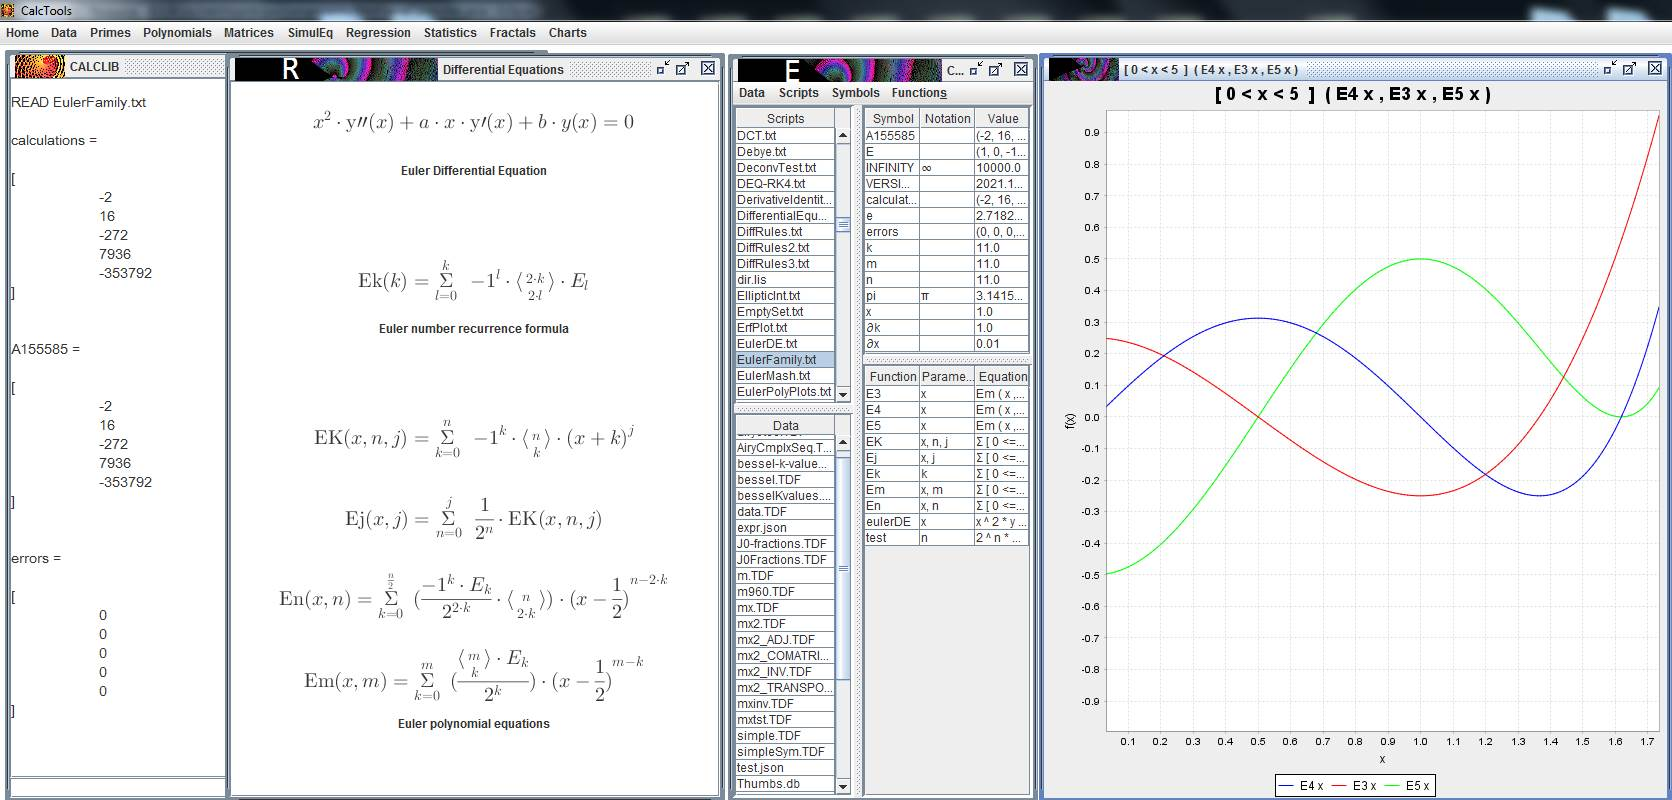
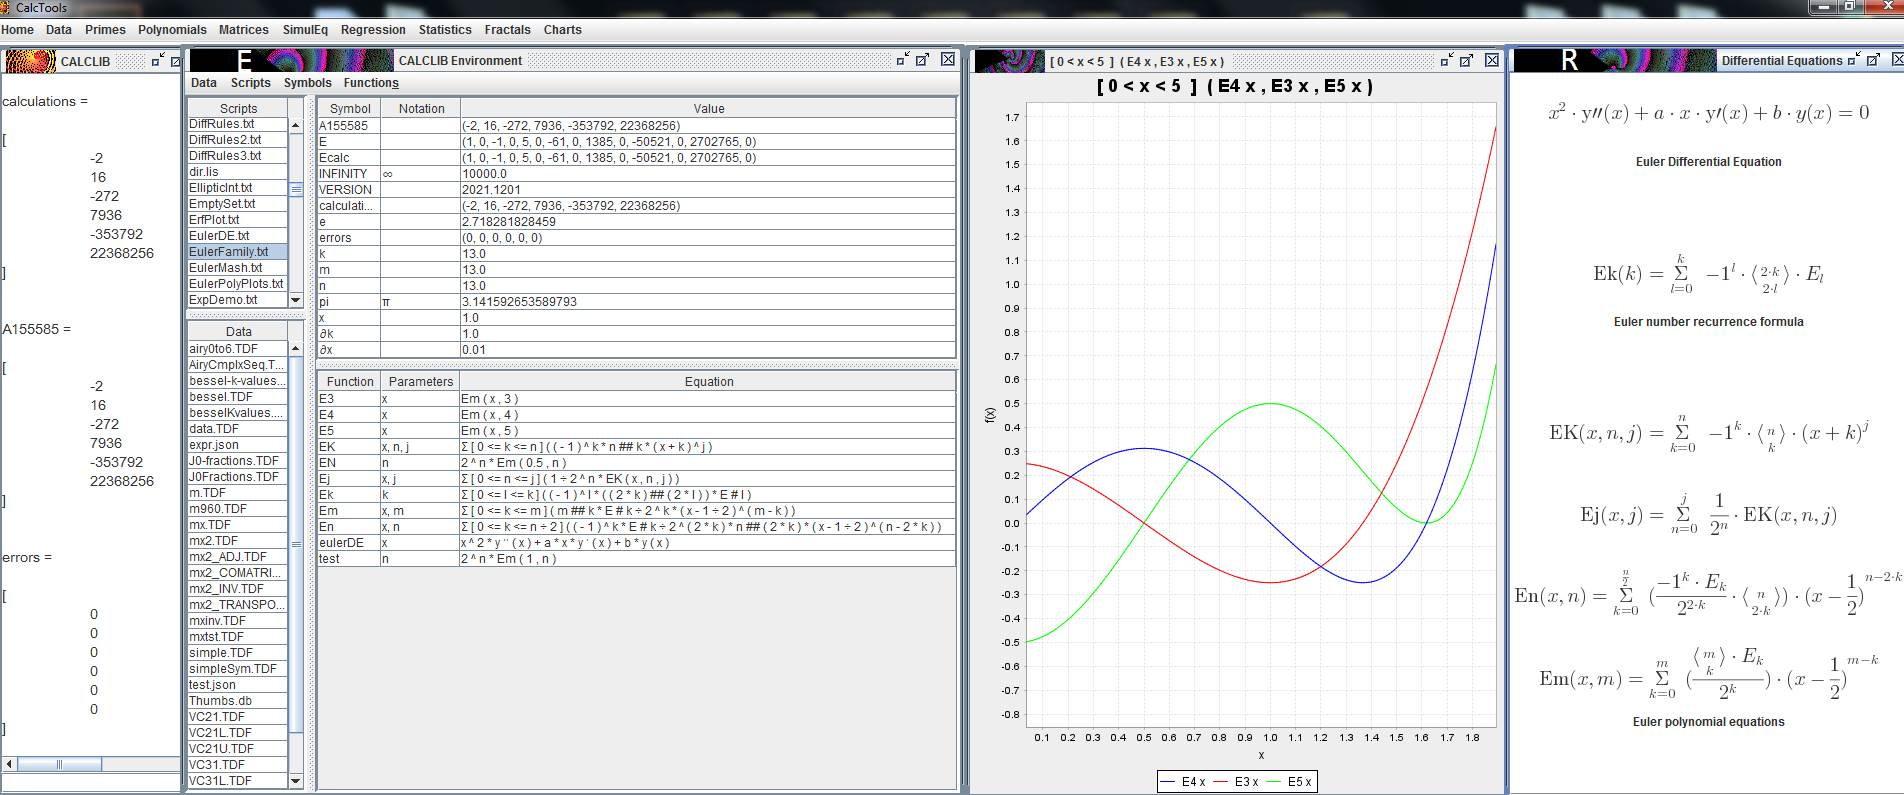
Euler page improved

Changed region(s): [[0.0, 0.0, 1.0, 1.0], [0.8397, 0.1811, 0.933, 0.2113], [0.8708, 0.7245, 0.9019, 0.7849]]

diff --git a/docs/EulerPolynomials.htm b/docs/EulerPolynomials.htm
@@ -23,17 +23,17 @@ w\:* {behavior:url(#default#VML);}
   <o:Author>Michael</o:Author>
   <o:Template>Normal</o:Template>
   <o:LastAuthor>Michael</o:LastAuthor>
-  <o:Revision>3</o:Revision>
-  <o:TotalTime>7</o:TotalTime>
+  <o:Revision>4</o:Revision>
+  <o:TotalTime>9</o:TotalTime>
   <o:Created>2021-11-16T00:44:00Z</o:Created>
-  <o:LastSaved>2021-11-16T01:20:00Z</o:LastSaved>
+  <o:LastSaved>2021-11-16T19:56:00Z</o:LastSaved>
   <o:Pages>1</o:Pages>
   <o:Words>4</o:Words>
-  <o:Characters>28</o:Characters>
+  <o:Characters>29</o:Characters>
   <o:Company>Windows User</o:Company>
   <o:Lines>1</o:Lines>
   <o:Paragraphs>1</o:Paragraphs>
-  <o:CharactersWithSpaces>31</o:CharactersWithSpaces>
+  <o:CharactersWithSpaces>32</o:CharactersWithSpaces>
   <o:Version>14.00</o:Version>
  </o:DocumentProperties>
 </xml><![endif]-->
@@ -461,7 +461,7 @@ div.WordSection1
 <p class=MsoNormal><o:p>&nbsp;</o:p></p>
 
 <p class=MsoNormal><span style='font-size:24.0pt;line-height:115%'>Euler
-Polynomials</span></p>
+Polynomials<o:p></o:p></span></p>
 
 <p class=MsoNormal><o:p>&nbsp;</o:p></p>
 
@@ -486,14 +486,16 @@ Polynomials</span></p>
  <v:path o:extrusionok="f" gradientshapeok="t" o:connecttype="rect"/>
  <o:lock v:ext="edit" aspectratio="t"/>
 </v:shapetype><v:shape id="Picture_x0020_2" o:spid="_x0000_i1025" type="#_x0000_t75"
- style='width:1254pt;height:600pt;visibility:visible;mso-wrap-style:square'>
+ style='width:1428pt;height:596.25pt;visibility:visible;mso-wrap-style:square'>
  <v:imagedata src="EulerPolynomials_files/image001.png" o:title="euler"/>
-</v:shape><![endif]--><![if !vml]><img width=1672 height=800
+</v:shape><![endif]--><![if !vml]><img width=1904 height=795
 src="EulerPolynomials_files/image002.jpg" v:shapes="Picture_x0020_2"><![endif]></span></p>
 
 <p class=MsoNormal><o:p>&nbsp;</o:p></p>
 
 <p class=MsoNormal>&nbsp;</p>
+
+<p class=MsoNormal><o:p>&nbsp;</o:p></p>
 
 <p class=MsoNormal>&nbsp;</p>
 
